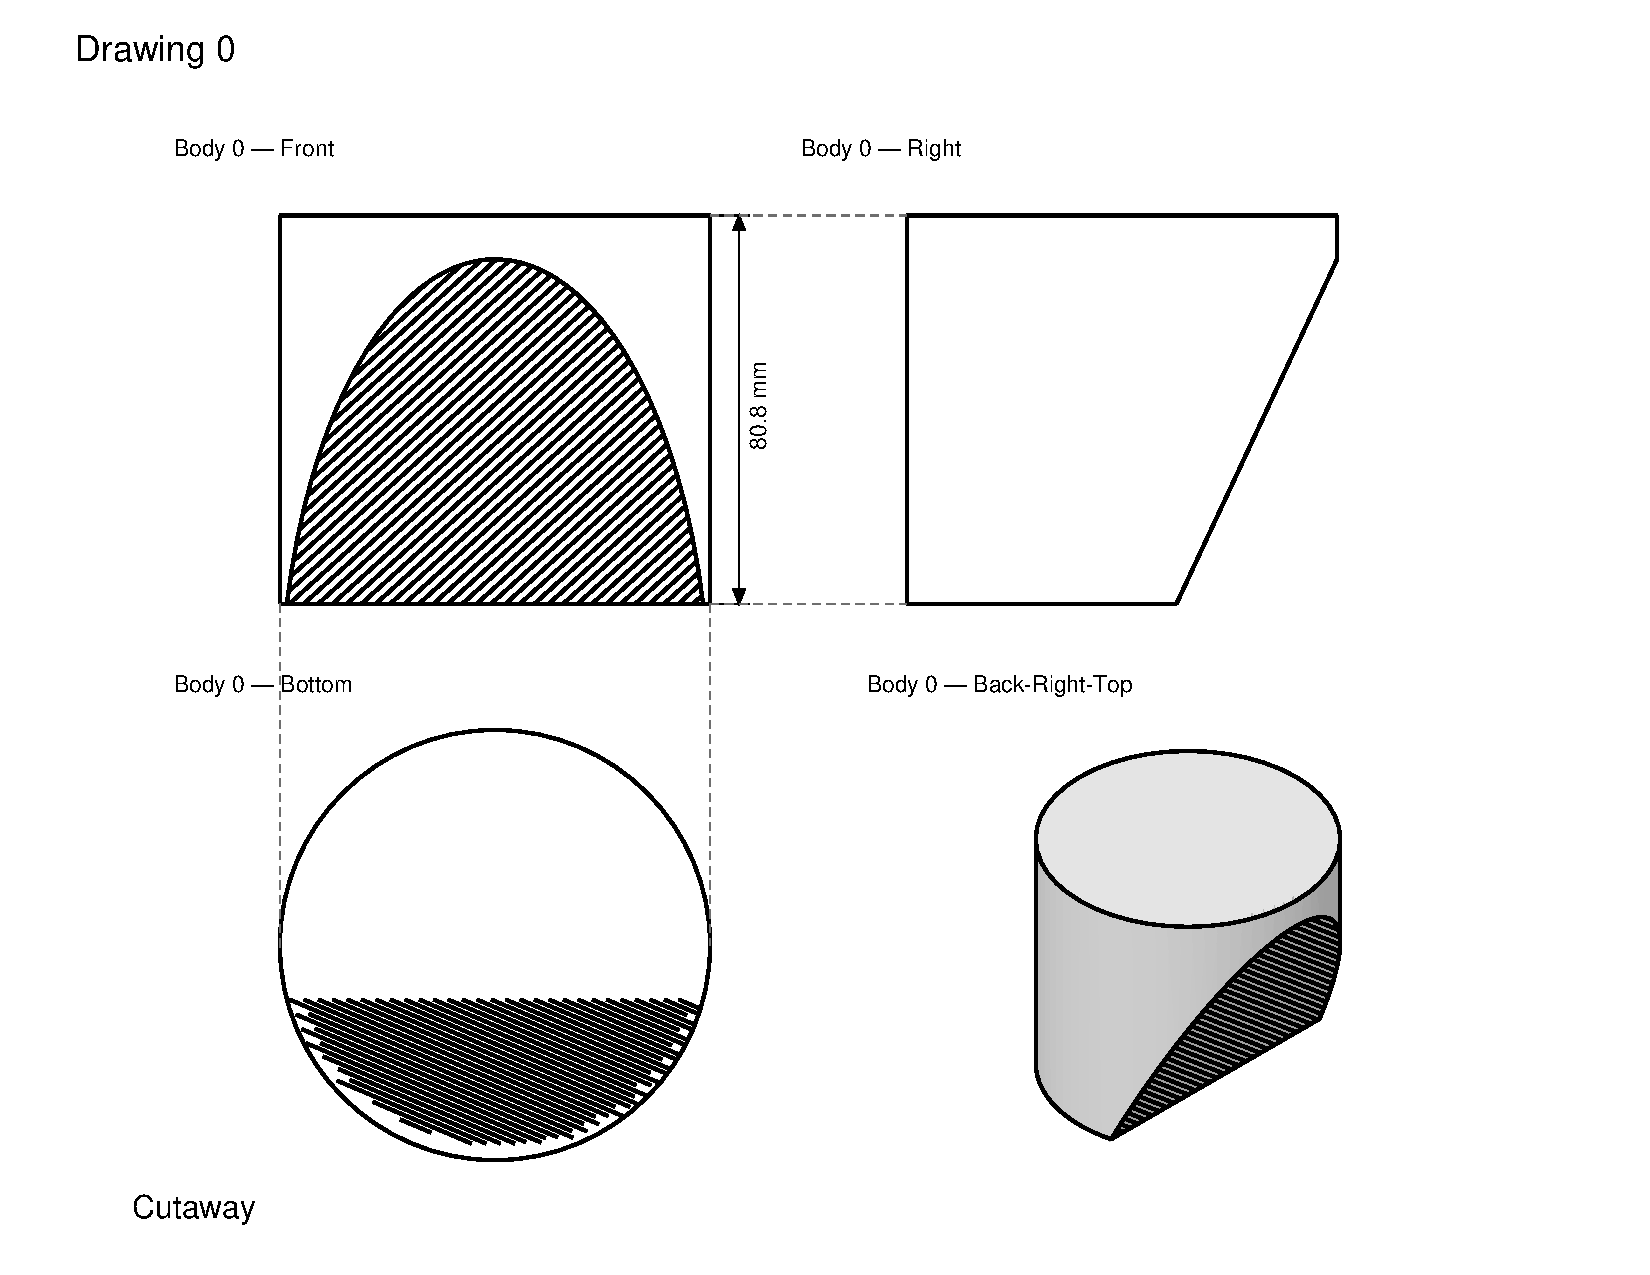
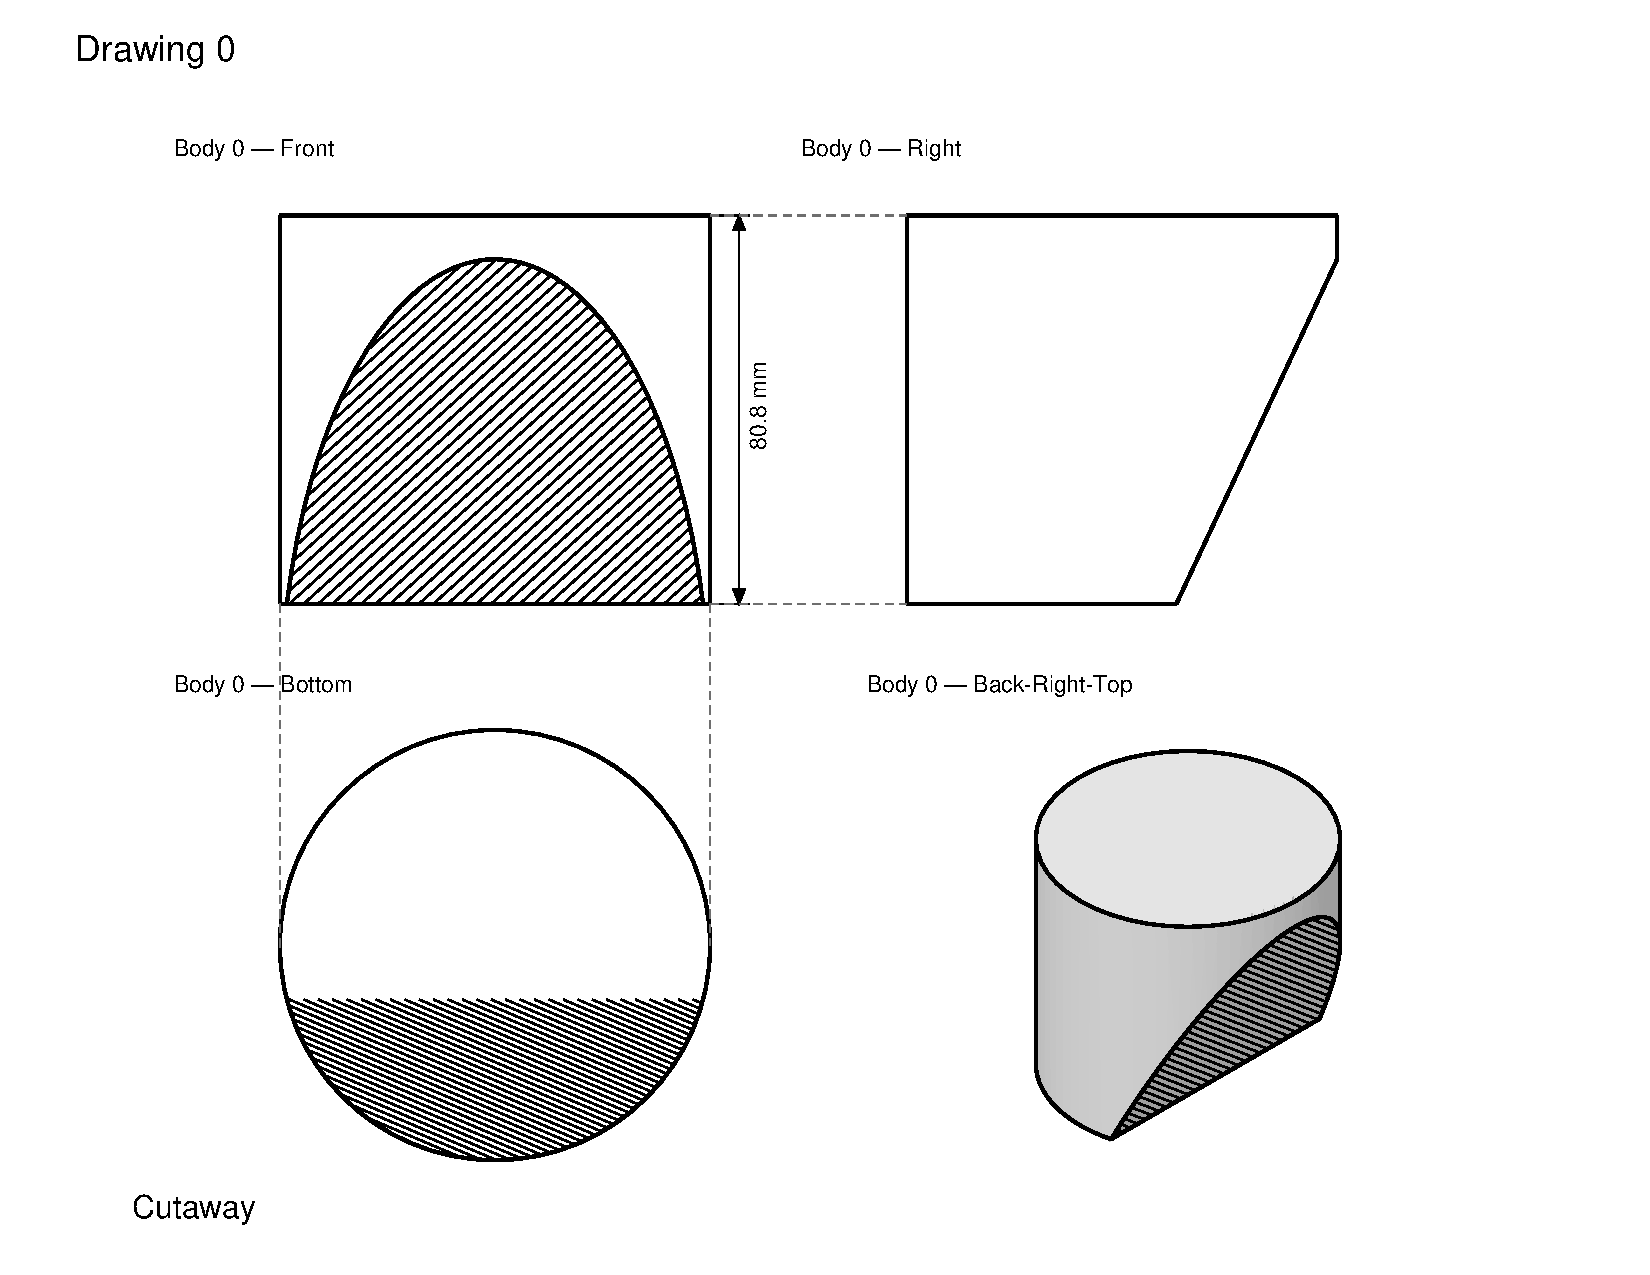
Drawing section hatch strokes thinner than model edges (#1784)

diff --git a/src/drawing.rs b/src/drawing.rs
@@ -885,6 +885,10 @@ pub const MODEL_STROKE: f32 = 1.6;
 /// than [`MODEL_STROKE`] so annotations sit visually beneath the model outline.
 pub const DIM_STROKE: f32 = 0.6;
 
+/// Section-hatch stroke width in a drawing (#1784): half the model edges', so the hatch
+/// reads as a fill texture on the cut faces rather than lines competing with the outline.
+pub const HATCH_STROKE: f32 = MODEL_STROKE * 0.5;
+
 /// Combined solid mesh of every body a view projects (#1190/#1191). Empty/`None` for sketch
 /// views or when no body still has geometry.
 /// The cutting planes a view is sectioned by (#1689): those of the cross-section view it was
@@ -1732,6 +1736,9 @@ pub struct StyledViewGeometry {
     /// The edge segments to stroke: every feature edge for `Wireframe`; only the visible
     /// runs (hidden lines removed) for `Visible`/`Shaded`.
     pub segments: Vec<(glam::Vec2, glam::Vec2)>,
+    /// A sectioned view's hatch lines (#1689), kept apart from the edges so they can stroke
+    /// thinner than them (#1784) — the hatch is a fill texture, not geometry.
+    pub hatch: Vec<(glam::Vec2, glam::Vec2)>,
 }
 
 /// One coplanar run of a shaded view's front faces, with the grey it's painted in
@@ -1757,13 +1764,18 @@ pub fn styled_view_geometry(
     // only, so the silhouette here doesn't affect them.
     let mut edges = drawing_view_world_edges(doc, view);
     edges.extend(drawing_view_silhouette_edges(doc, views, view));
-    // A sectioned view hatches the faces its planes opened (#1689). The lines join the
-    // stroked edges *here* rather than in `drawing_view_world_edges`, so dimensioning and
-    // circle detection still see only real geometry.
-    edges.extend(section_hatch_world_segments(doc, view));
+    // A sectioned view hatches the faces its planes opened (#1689). The hatch travels in its
+    // own field rather than with the stroked edges (#1784) — it draws thinner — and apart
+    // from `drawing_view_world_edges`, so dimensioning and circle detection still see only
+    // real geometry.
+    let hatch: Vec<(glam::Vec2, glam::Vec2)> = section_hatch_world_segments(doc, view)
+        .iter()
+        .map(|(a, b)| (project(*a), project(*b)))
+        .collect();
     let wireframe = || StyledViewGeometry {
         faces: Vec::new(),
         segments: edges.iter().map(|(a, b)| (project(*a), project(*b))).collect(),
+        hatch: hatch.clone(),
     };
     if view.sketch.is_some() || view.style == DrawingViewStyle::Wireframe {
         return wireframe();
@@ -1882,7 +1894,7 @@ pub fn styled_view_geometry(
             .collect();
     }
 
-    StyledViewGeometry { faces: fills, segments }
+    StyledViewGeometry { faces: fills, segments, hatch }
 }
 
 /// An 8-bit RGB paint.
@@ -2269,6 +2281,12 @@ fn render_view_geometry<C: Canvas>(
         }
         let (sa, sb) = (to_screen(*a), to_screen(*b));
         canvas.line(sa.x, sa.y, sb.x, sb.y, BLACK, MODEL_STROKE);
+    }
+    // The section hatch strokes thinner than the edges (#1784): a fill texture, not
+    // geometry.
+    for (a, b) in &styled.hatch {
+        let (sa, sb) = (to_screen(*a), to_screen(*b));
+        canvas.line(sa.x, sa.y, sb.x, sb.y, BLACK, HATCH_STROKE);
     }
     // Smooth detected circles (round) or their foreshortened diameter line (edge-on).
     for pc in &pcircles {
@@ -4150,5 +4168,51 @@ label_hidden: false,
             svg.contains(&needle) && svg.contains("text-anchor=\"end\""),
             "bottom-right label anchors at the card corner ({needle})"
         );
+    }
+
+    /// #1784: a sectioned view's hatch strokes separately from its edges — the hatch is a
+    /// fill texture, not geometry, and draws at the thinner [`HATCH_STROKE`].
+    #[test]
+    fn section_hatch_is_stroked_separately_from_edges() {
+        let mut state = crate::actions::AppState::default();
+        let mut shape = crate::model::Primitive::new(crate::model::PrimitiveKind::Cuboid);
+        shape.origin = [0.0, 0.0, 0.0];
+        shape.width = "40".into();
+        shape.depth = "40".into();
+        shape.height = "40".into();
+        state.apply(crate::actions::Action::CreateShape { shape });
+        state.apply(crate::actions::Action::CreateCrossSection { name: None });
+        let section = state.doc.cross_sections.keys().next().expect("the view");
+        state.apply(crate::actions::Action::AddCrossSectionCut {
+            view: Some(section),
+            cut: crate::model::CrossSectionCut {
+                origin: glam::Vec3::new(0.0, 0.0, 20.0),
+                normal: -glam::Vec3::Z,
+                ..Default::default()
+            },
+        });
+        state.apply(crate::actions::Action::CreateDrawing { name: None });
+        let drawing = state.doc.drawings.keys().next().expect("the drawing");
+        state.apply(crate::actions::Action::AddDrawingView {
+            drawing,
+            bodies: vec![bkey(0)],
+            orientation: crate::model::DrawingOrientation::Top,
+        });
+        state.apply(crate::actions::Action::SetDrawingViewCrossSection {
+            drawing,
+            view: 0,
+            cross_section: Some(section),
+        });
+        let views = state.doc.drawings[drawing].views.clone();
+        let geo = styled_view_geometry(&state.doc, &views, &views[0]);
+        assert!(!geo.hatch.is_empty(), "the cut face is hatched");
+        assert!(!geo.segments.is_empty(), "the edges still stroke");
+        for h in &geo.hatch {
+            assert!(
+                !geo.segments.contains(h),
+                "hatch segment {h:?} must not ride with the edges"
+            );
+        }
+        assert!(HATCH_STROKE < MODEL_STROKE, "the hatch draws thinner than edges");
     }
 }

diff --git a/src/main.rs b/src/main.rs
@@ -27804,6 +27804,16 @@ impl App {
                             egui::Stroke::new(crate::drawing::MODEL_STROKE, INK),
                         );
                     }
+                    // The section hatch strokes thinner than the edges (#1784).
+                    for (a, b) in &sty.hatch {
+                        painter.line_segment(
+                            [
+                                to_screen(egui::vec2(a.x, a.y)),
+                                to_screen(egui::vec2(b.x, b.y)),
+                            ],
+                            egui::Stroke::new(crate::drawing::HATCH_STROKE, INK),
+                        );
+                    }
                 }
                 // A rotated label drawn centred at a screen point (#314/#320).
                 let draw_rot_label = |painter: &egui::Painter, text: String, at: egui::Pos2, ang: f32| {

diff --git a/changes/fix-Technical-drawings-stroke-20260827-120145.md b/changes/fix-Technical-drawings-stroke-20260827-120145.md
@@ -1,0 +1,1 @@
+Technical drawings stroke section hatching at half the model-edge line weight, so it reads as a fill texture instead of competing with the outline (#1784)
